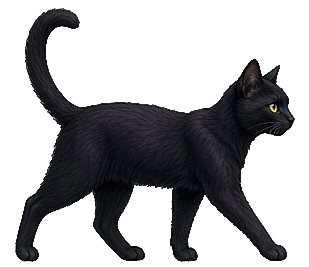
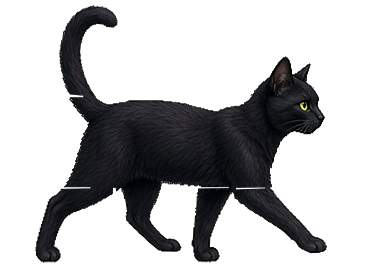
The black cat's walk: six clear frames in every direction
tools/cat_walk.py (run by cut_anims.py) splits each view's painted frame
into body, legs and tail layers and animates them: diagonal leg pairs
stepping (stance then lifted swing, each leg warped about its hip so the
painting is kept), a small body bob at the passing moments and a tail
sway. Planted paws slide back at exactly the body's ground speed, and the
game advances a frame every cat.WALK_FRAME_D tiles (0.5 tiles a cycle),
so the feet don't skate. Same canvas, size and anchor for every frame
(the canvas is a little wider so a swung paw isn't clipped). Sit, sleep,
stretch and hiss poses unchanged. Self-test checks six distinct frames,
one size and anchor per view, and the frame distance.

Changed region(s): [[0.0291, 0.0, 0.9612, 0.9888], [0.3204, 0.3596, 0.4951, 0.3895], [0.7282, 0.4494, 0.7573, 0.4794]]

diff --git a/tools/cat_walk.py b/tools/cat_walk.py
@@ -1,0 +1,200 @@
+#!/usr/bin/env python3
+"""The black cat's walk cycle, animated from one painted frame per view.
+
+    python3 tools/cat_walk.py [--strip OUT.png]   (cut_anims.py runs it too)
+
+The generated walk sheets (cat_e/se/ne/s/n.jpg) barely change between
+frames, so the walk was hardly visible. Here each view's best frame is
+split into layers: the body, each visible leg and (where it hangs free)
+the tail. Each leg is a rectangle of the frame below its hip line (LEGS);
+the rest is the body. Every frame then:
+
+  * moves each foot along the view's direction of travel (TRAVEL): on the
+    ground for STANCE of the cycle, sliding back at exactly the speed the
+    body moves over the floor (so nothing skates when the game advances a
+    frame every cat.WALK_FRAME_D tiles), then lifted and swung forward.
+    Diagonal pairs move together (PHASE 0 / 0.5): back-left with
+    front-right, and so on. The leg layer is warped with the affine map
+    that keeps the hip fixed and takes the foot to its new place (a shear
+    along the leg: the painting is kept, nothing redrawn);
+  * raises the body (and the hips) by BOB at the two passing moments,
+    the stance legs stretching to keep their feet planted;
+  * swings the tail a few degrees about its root.
+
+Writes assets/art/cat_<view>_<n>.png (n = 1..FRAMES) on the canvas the
+cut gave (same size and anchor: the feet line is untouched) and sets
+"frames" in anims.json.
+"""
+import json
+import math
+import os
+import sys
+
+import numpy as np
+from PIL import Image
+
+HERE = os.path.dirname(os.path.abspath(__file__))
+sys.path.insert(0, HERE)
+sys.path.insert(0, os.path.join(HERE, ".."))
+import cut_anims as CA  # noqa: E402
+import cut_sheets as CS  # noqa: E402
+
+FRAMES = 6
+CYCLE_TILES = 0.5          # tiles walked per full cycle (cat.WALK_FRAME_D = CYCLE_TILES / FRAMES)
+STANCE = 0.6               # share of the cycle a foot is on the ground
+HW, HH = 56, 28            # half a floor tile on screen (game px)
+# screen direction of travel and game px per tile walked, for each view
+TRAVEL = {"cat_e": ((1, 0), HW * math.sqrt(2)), "cat_se": ((2, 1), math.hypot(HW, HH)),
+          "cat_ne": ((2, -1), math.hypot(HW, HH)), "cat_s": ((0, 1), HH * math.sqrt(2)),
+          "cat_n": ((0, -1), HH * math.sqrt(2))}
+# legs: ([(x0, x1, y0, y1), ...], phase): the rectangles (canvas px of the cut
+# base frame, index 1) that make up each leg; the first one's top is the hip line
+LEGS = {
+    "cat_e": [([(0, 84, 190, 999)], 0.0), ([(84, 150, 190, 999)], 0.5),
+              ([(150, 207, 190, 999)], 0.0), ([(207, 999, 190, 999)], 0.5)],
+    "cat_se": [([(0, 62, 228, 999)], 0.0), ([(62, 150, 242, 999)], 0.5),
+               ([(150, 182, 252, 999)], 0.0), ([(182, 999, 252, 999)], 0.5)],
+    "cat_ne": [([(122, 151, 352, 400), (110, 175, 400, 999)], 0.0), ([(151, 186, 352, 400)], 0.5),
+               ([(190, 999, 266, 999)], 0.0)],
+    "cat_s": [([(0, 87, 392, 505), (0, 96, 505, 999)], 0.0), ([(87, 999, 392, 505), (96, 999, 505, 999)], 0.5)],
+    "cat_n": [([(100, 142, 398, 450), (100, 999, 450, 999)], 0.0), ([(142, 999, 346, 450)], 0.5)],
+}
+TAIL_KEEP = 14             # px of the tail's root left on the body (the swung tail goes behind it)
+# the tail: (x0, x1, y0, y1, root x, root y) where it hangs free of the body
+TAIL = {"cat_e": (0, 120, 0, 100, 66, 104), "cat_se": (0, 110, 0, 118, 55, 120),
+        "cat_ne": (0, 80, 355, 999, 84, 384), "cat_s": (0, 999, 0, 150, 88, 150),
+        "cat_n": (0, 76, 320, 999, 78, 384)}
+OVERLAP = 8                # px of each leg's top also drawn above its hip line (behind the body): no seam
+BOB = 1.2                  # game px the body rises at each passing moment
+LIFT = 3.0                 # game px a swinging paw is lifted
+TAIL_DEG = 7.0
+PAD_X = 30                 # canvas px added left and right: a paw swung back stays on the canvas
+
+
+def layers(img, view):
+    a = np.asarray(img).copy()
+    h, w = a.shape[:2]
+    taken = np.zeros((h, w), bool)
+    out = []
+    yy, xx = np.mgrid[0:h, 0:w]
+    xx = xx - PAD_X                    # LEGS and TAIL are in the cut frame's coordinates
+    for rects, ph in LEGS[view]:
+        m = np.zeros((h, w), bool)
+        for x0, x1, y0, y1 in rects:
+            m |= (xx >= x0) & (xx < x1) & (yy >= y0) & (yy < y1)
+        m &= (a[..., 3] > 0) & ~taken
+        y0 = rects[0][2]
+        taken |= m
+        cols = np.nonzero(m[y0:y0 + 3].any(0))[0]
+        if len(cols):
+            m = m | ((yy >= y0 - OVERLAP) & (yy < y0) & (xx >= cols.min()) & (xx <= cols.max()) & (a[..., 3] > 0))
+        ys, xs = np.nonzero(m & (a[..., 3] > 128))
+        top = xs[ys <= ys.min() + 4]
+        hip = (float(top.mean()) + PAD_X, float(y0))
+        low = ys >= ys.max() - 6
+        foot = (float(xs[low].mean()) + PAD_X, float(ys.max()))
+        lay = a.copy()
+        lay[..., 3] = np.where(m, a[..., 3], 0)
+        out.append(("leg", Image.fromarray(lay), hip, foot, ph))
+    tx0, tx1, ty0, ty1, rx, ry = TAIL[view]
+    m = (xx >= tx0) & (xx < tx1) & (yy >= ty0) & (yy < ty1) & (a[..., 3] > 0) & ~taken
+    # the swung tail is drawn behind the body, which keeps the root
+    near_root = np.hypot(xx - rx, yy - ry) < TAIL_KEEP
+    taken |= m & ~near_root
+    lay = a.copy()
+    lay[..., 3] = np.where(m, a[..., 3], 0)
+    tail = ("tail", Image.fromarray(lay), (rx + PAD_X, ry))
+    body = a.copy()
+    body[..., 3] = np.where(taken, 0, a[..., 3])
+    return Image.fromarray(body), [l for l in out], tail
+
+
+def affine(img, M, t):
+    """Draw img through x' = M x + t (PIL wants the inverse)."""
+    Mi = np.linalg.inv(M)
+    ti = -Mi @ t
+    return img.transform(img.size, Image.AFFINE, (Mi[0, 0], Mi[0, 1], ti[0], Mi[1, 0], Mi[1, 1], ti[1]),
+                         resample=Image.BICUBIC)
+
+
+def foot_offset(phase, stride):
+    """Along-travel offset (canvas px, + = ahead) and lift of a foot."""
+    if phase < STANCE:
+        return stride / 2 - stride * phase / STANCE, 0.0
+    u = (phase - STANCE) / (1 - STANCE)
+    return -stride / 2 + stride * (0.5 - 0.5 * math.cos(math.pi * u)), math.sin(math.pi * u)
+
+
+def make(view, base, k):
+    """FRAMES frames for one view; k = game px per canvas px."""
+    wide = Image.new("RGBA", (base.width + 2 * PAD_X, base.height), (0, 0, 0, 0))
+    wide.alpha_composite(base, (PAD_X, 0))
+    base = wide
+    body, legs, tail = layers(base, view)
+    (dx, dy), ppt = TRAVEL[view]
+    n = math.hypot(dx, dy)
+    u = np.array([dx / n, dy / n])
+    stride = STANCE * CYCLE_TILES * ppt / k        # canvas px a planted foot slides back relative to the body
+    frames = []
+    for i in range(FRAMES):
+        phi = i / FRAMES
+        bob = BOB / k * (0.5 - 0.5 * math.cos(4 * math.pi * phi))
+        canvas = Image.new("RGBA", base.size, (0, 0, 0, 0))
+        up = np.array([0.0, -bob])
+        # tail (behind the body)
+        _, timg, (rx, ry) = tail
+        ang = math.radians(TAIL_DEG * math.sin(2 * math.pi * phi))
+        R = np.array([[math.cos(ang), -math.sin(ang)], [math.sin(ang), math.cos(ang)]])
+        root = np.array([rx, ry])
+        canvas.alpha_composite(affine(timg, R, root - R @ root + up))
+        warped = []
+        for _, limg, hip, foot, ph in legs:
+            s, lift = foot_offset((phi + ph) % 1.0, stride)
+            hip_v, foot_v = np.array(hip), np.array(foot)
+            v = foot_v - hip_v
+            # the foot's new place relative to the (raised) hip
+            delta = u * s + np.array([0.0, -lift * LIFT / k]) + np.array([0.0, bob])
+            M = np.eye(2) + np.outer(delta, v) / (v @ v)
+            t = hip_v - M @ hip_v + up
+            warped.append((foot_v[1] - lift, affine(limg, M, t)))
+        for _, w in sorted(warped, key=lambda p: p[0]):    # the nearer (lower) feet over the far ones
+            canvas.alpha_composite(w)
+        canvas.alpha_composite(affine(body, np.eye(2), up))
+        frames.append(canvas)
+    return frames
+
+
+def main(argv=()):
+    meta_path = os.path.join(CS.OUT, "anims.json")
+    meta = json.load(open(meta_path))
+    out = {}
+    for view in LEGS:
+        sheet, ref, size = CA.SETS[view]
+        frames = CA.cut_frames(sheet)
+        frames, _anchor = CA.align(view, frames)
+        base = frames[1]
+        old_pad = meta[view].get("walk_pad", 0)
+        k = meta[view]["size"][1] / base.height
+        ax, ay = meta[view]["anchor"]
+        ax -= old_pad * k
+        new = make(view, base, k)
+        for i, f in enumerate(new):
+            f.save(os.path.join(CS.OUT, f"{view}_{i + 1}.png"))
+        for j in range(FRAMES, 8):
+            p = os.path.join(CS.OUT, f"{view}_{j + 1}.png")
+            if os.path.exists(p) and j >= FRAMES:
+                os.remove(p)
+        meta[view]["frames"] = FRAMES
+        meta[view]["size"] = [max(1, round(new[0].width * k)), meta[view]["size"][1]]
+        meta[view]["anchor"] = [round(ax + PAD_X * k, 1), ay]
+        meta[view]["walk_pad"] = PAD_X
+        meta[view]["walk"] = "tools/cat_walk.py"
+        out[view] = new
+        print(f"{view}: {FRAMES} walk frames")
+    with open(meta_path, "w") as fh:
+        json.dump(meta, fh, indent=1)
+    return out
+
+
+if __name__ == "__main__":
+    main(sys.argv[1:])

diff --git a/tools/selftest.py b/tools/selftest.py
@@ -829,6 +829,17 @@ def cat_checks(g):
             check(all(f is not None for f in fr) and len({f[0].get_size() for f in fr}) == 1, f"{s}: 4 frames")
     check(len({CAT.view_for(math.cos(a), math.sin(a)) for a in [i * math.pi / 4 for i in range(8)]}) == 8,
           "the cat walks in eight directions")
+    import numpy as np
+    import cat_walk
+    check(abs(CAT.WALK_FRAME_D * CAT.WALK_FRAMES - cat_walk.CYCLE_TILES) < 1e-9 and CAT.WALK_FRAMES == cat_walk.FRAMES >= 6,
+          "the cat's frames follow the distance it walks (one cycle per cat_walk.CYCLE_TILES: no skating)")
+    for s in ("cat_e", "cat_se", "cat_s", "cat_n", "cat_ne"):
+        fr = [g.art.enemy_frame(s, i, False) for i in range(CAT.WALK_FRAMES)]
+        arrs = [pygame.surfarray.array_alpha(f[0]).astype(float) for f in fr]
+        diffs = [np.abs(a - b).mean() for a, b in zip(arrs, arrs[1:] + arrs[:1])]
+        check(len({f[0].get_size() for f in fr}) == 1 and len({(f[1], f[2]) for f in fr}) == 1,
+              f"{s}: {CAT.WALK_FRAMES} walk frames, one size and anchor")
+        check(min(diffs) > 0.5, f"{s}: every walk frame visibly differs from the next ({min(diffs):.2f})")
     g.new_game(11)
     g.mode = "play"
     god, g.god = g.god, True

diff --git a/cat.py b/cat.py
@@ -38,7 +38,8 @@ LOST_S = 25.0                   # s apart, sitting at the door: give up and go a
 CROSS_S = 6.0                   # s at most to get to a door when following (then it slips through)
 WAKE_S = (0.9, 1.0, 0.5)        # curled up, stretching, sitting: then off it goes
 HISS_S = 2.2
-WALK_FRAME_D = 0.17             # tiles per walk frame (four-frame cycle)
+WALK_FRAMES = 6                 # tools/cat_walk.py: one stride (both diagonal pairs) in six frames
+WALK_FRAME_D = 0.5 / WALK_FRAMES   # tiles per frame: cat_walk.CYCLE_TILES a cycle, so planted paws don't skate
 SIT_FLICK_S = 3.0               # sitting from behind: the tail flicks every so often
 
 # eight screen directions -> (frame set, mirrored); 0 = screen right, clockwise
@@ -356,7 +357,7 @@ class Cat:
                 pass
         self.walk_d += min(step, n)
         self.set, self.left = view_for(vx, vy)
-        self.frame = int(self.walk_d / WALK_FRAME_D) % 4
+        self.frame = int(self.walk_d / WALK_FRAME_D) % WALK_FRAMES
         self.look = (vx, vy)
         return math.hypot(gx - self.x, gy - self.y) <= stop
 

diff --git a/tools/cut_anims.py b/tools/cut_anims.py
@@ -217,6 +217,8 @@ def main(argv):
             strip(name, frames, size, anchor, os.path.join(strips, f"{name}_strip.png"))
     with open(os.path.join(OUT, "anims.json"), "w") as fh:
         json.dump(meta, fh, indent=1)
+    import cat_walk                      # the cat's walk: six frames per view from one painted frame
+    cat_walk.main()
 
 
 LABELS = {"bat": ("1 wings up", "2 outstretched", "3 wings down", "4 folded"),
